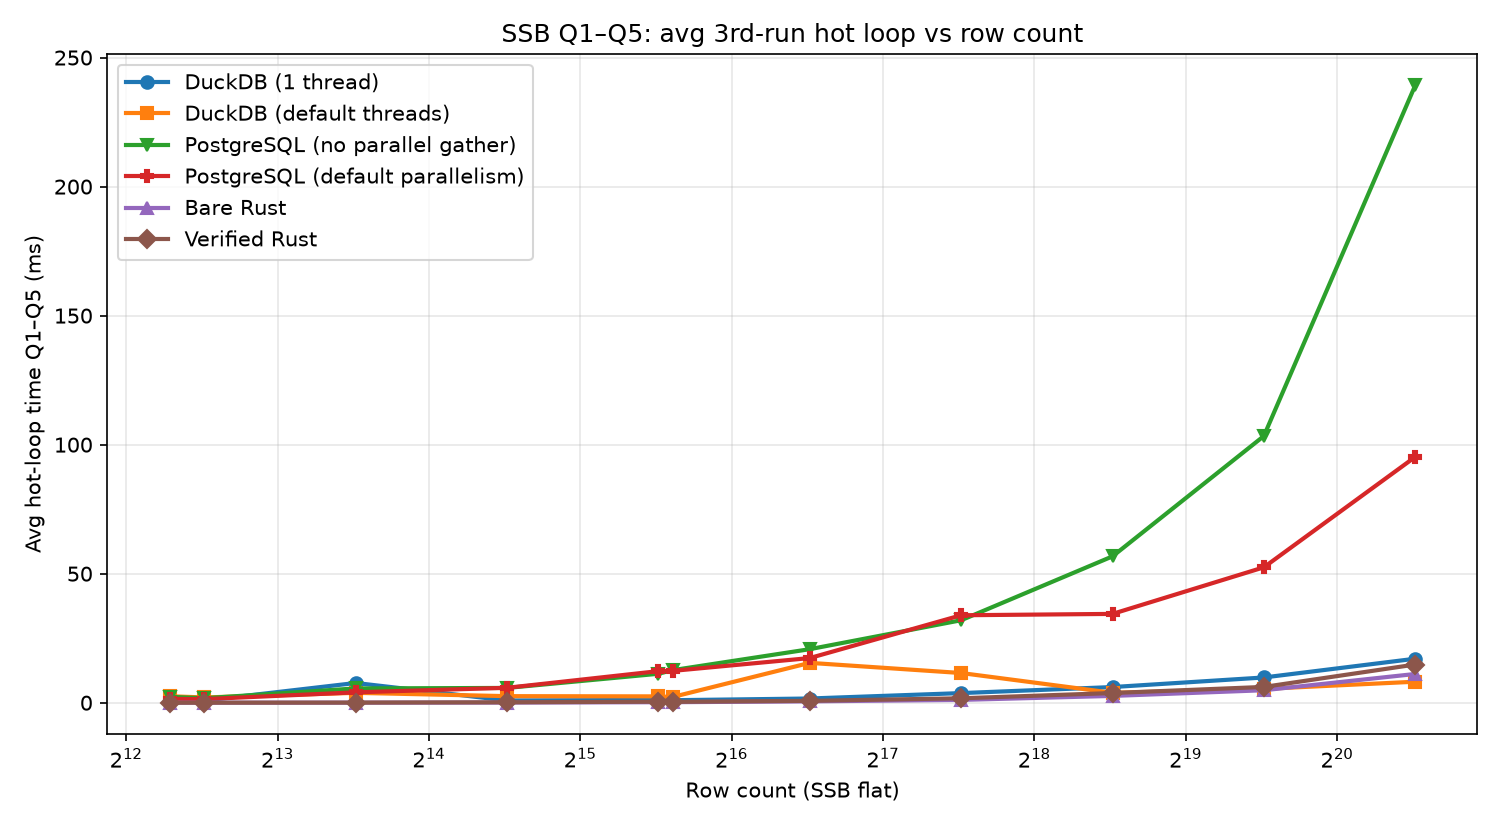
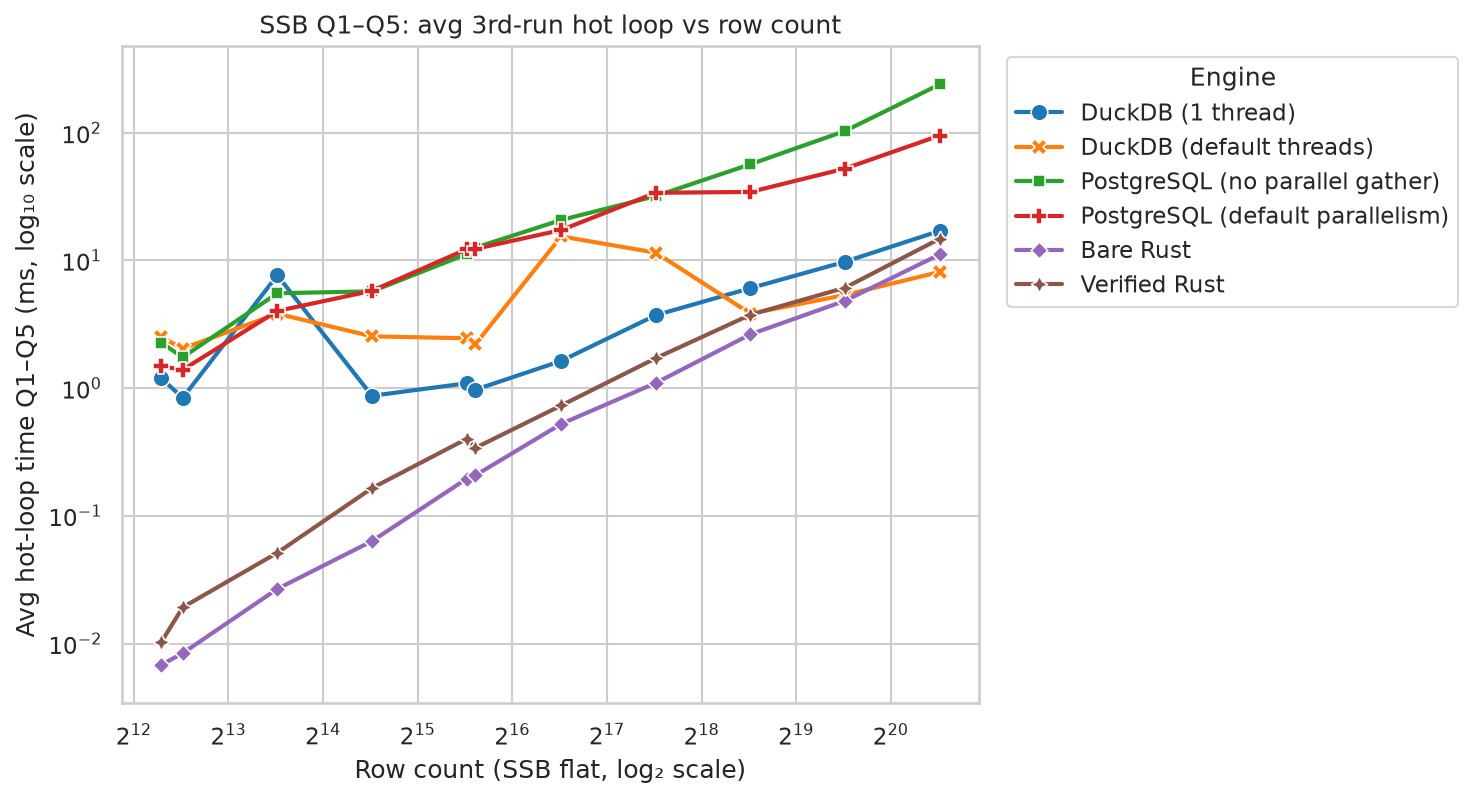
Use seaborn log-scale scaling plot and slim down README.
Regenerate the Q1–Q5 benchmark figure with log₁₀ y-axis so PostgreSQL
does not dominate; move repo layout and make targets to `make help`.

diff --git a/research_loop/benchmark_scaling.py b/research_loop/benchmark_scaling.py
@@ -9,7 +9,7 @@ Methodology (apples-to-apples hot loop):
   - Bare / verified Rust: single-threaded generated loops (no parallelism today).
 
 Results: data/benchmarks/scaling_results.json
-Plot:     plots/scaling_avg_hot_q1_q5.png
+Plot:     plots/scaling_avg_hot_q1_q5.png  (seaborn, log₂ rows, log₁₀ ms)
 """
 from __future__ import annotations
 
@@ -461,6 +461,8 @@ def run_postgres(data: dict) -> dict:
 
 def plot_results(data: dict) -> Path:
     import matplotlib.pyplot as plt
+    import pandas as pd
+    import seaborn as sns
 
     PLOTS_DIR.mkdir(parents=True, exist_ok=True)
     sizes = sorted(int(k) for k in data["sizes"] if data["sizes"][k].get("complete"))
@@ -493,7 +495,6 @@ def plot_results(data: dict) -> Path:
                 continue
             points[k].append((limit, sum(avgs[k]) / len(avgs[k]) / 1000.0))
 
-    fig, ax = plt.subplots(figsize=(10, 5.5))
     labels = {
         "duckdb_1t": "DuckDB (1 thread)",
         "duckdb_mt": "DuckDB (default threads)",
@@ -502,29 +503,45 @@ def plot_results(data: dict) -> Path:
         "bare_rust": "Bare Rust",
         "verified_rust": "Verified Rust",
     }
-    markers = {
-        "duckdb_1t": "o",
-        "duckdb_mt": "s",
-        "postgres_1t": "v",
-        "postgres_mt": "P",
-        "bare_rust": "^",
-        "verified_rust": "D",
-    }
+
+    rows: list[dict] = []
     for key, pts in points.items():
-        if not pts:
-            continue
-        xs, ys = zip(*pts)
-        ax.plot(xs, ys, marker=markers[key], label=labels[key], linewidth=2)
+        for limit, ms in pts:
+            if ms <= 0:
+                continue
+            rows.append({"rows": limit, "ms": ms, "engine": labels[key]})
+    if not rows:
+        raise RuntimeError("no positive latency points to plot")
+
+    df = pd.DataFrame(rows)
+    min_ms = df["ms"].min()
+    max_ms = df["ms"].max()
+
+    sns.set_theme(style="whitegrid", context="notebook", palette="tab10")
+    fig, ax = plt.subplots(figsize=(10, 5.5))
+    sns.lineplot(
+        data=df,
+        x="rows",
+        y="ms",
+        hue="engine",
+        style="engine",
+        markers=True,
+        dashes=False,
+        linewidth=2,
+        markersize=8,
+        ax=ax,
+    )
 
     ax.set_xscale("log", base=2)
-    ax.set_xlabel("Row count (SSB flat)")
-    ax.set_ylabel("Avg hot-loop time Q1–Q5 (ms)")
+    ax.set_yscale("log")
+    ax.set_xlabel("Row count (SSB flat, log₂ scale)")
+    ax.set_ylabel("Avg hot-loop time Q1–Q5 (ms, log₁₀ scale)")
     ax.set_title("SSB Q1–Q5: avg 3rd-run hot loop vs row count")
-    ax.legend()
-    ax.grid(True, alpha=0.3)
+    ax.set_ylim(bottom=max(min_ms * 0.5, 1e-3), top=max_ms * 2)
+    ax.legend(title="Engine", bbox_to_anchor=(1.02, 1), loc="upper left")
     fig.tight_layout()
     out = PLOTS_DIR / "scaling_avg_hot_q1_q5.png"
-    fig.savefig(out, dpi=150)
+    fig.savefig(out, dpi=150, bbox_inches="tight")
     plt.close(fig)
     return out
 

diff --git a/README.md b/README.md
@@ -50,7 +50,7 @@ SELECT lemma('SELECT SUM(LO_EXTENDEDPRICE * LO_DISCOUNT) FROM lineorder_flat WHE
 
 ## Results
 
-Scaling benchmark on the SSB flat table (`lineorder_flat`): Q1–Q5 hot-loop latency (3rd timed run) vs row count, comparing DuckDB, PostgreSQL, bare Rust, and verified+postprocessed Rust. Full methodology and raw numbers are in `data/benchmarks/scaling_results.json`.
+Scaling benchmark on the SSB flat table (`lineorder_flat`): Q1–Q5 hot-loop latency (3rd timed run) vs row count (log₂ x-axis, log₁₀ y-axis), comparing DuckDB, PostgreSQL, bare Rust, and verified+postprocessed Rust. Full methodology and raw numbers are in `data/benchmarks/scaling_results.json`.
 
 ![SSB Q1–Q5 scaling: mean hot-loop latency vs row count](plots/scaling_avg_hot_q1_q5.png)
 
@@ -62,34 +62,3 @@ uv run python research_loop/benchmark_verified.py   # single-point check at 50k 
 ```
 
 At 50k rows, verified Rust matches DuckDB on correctness and is competitive on simple scans; at 1.5M rows group-by queries remain the hard case. See `design_docs/writeup_plan.md` for the compilation pipeline performance story.
-
----
-
-## Repository Structure
-
-```
-Lemma/
-├── transpiler/              # SQL → Dafny transpiler (sql-transpiler)
-├── db_extension/            # Lemma DuckDB extension + optimizer entrypoint
-├── research_loop/           # Verify, compile, agent sandbox, benchmarks
-│   └── examples/dafny/      # Standalone Dafny snippets for manual experiments
-├── scripts/
-│   ├── demo.sh              # Live demo (Cursor Agent CLI)
-│   ├── mockdemo.sh          # Offline demo (no LLM)
-│   ├── duckdb_shell.sh      # DuckDB CLI launcher
-│   └── build_ssb_flat_dataset.sh
-├── data/benchmarks/         # Scaling benchmark JSON results
-├── plots/                   # Benchmark plots for README / papers
-└── design_docs/             # Design notes and writeup plans
-```
-
-## Makefile
-
-| Command | Description |
-|---|---|
-| `make install` | Install all Python dependencies via `uv sync` |
-| `make test` | Run transpiler and database extension unit tests |
-| `make test-slow` | Run Dafny functional tests (requires `dafny` in PATH) |
-| `make loop` | Run one iteration of the research loop (Query 1, 50k rows) |
-| `make extension` | Build `build/lemma.duckdb_extension` |
-| `make clean` | Remove build artifacts and `__pycache__` |